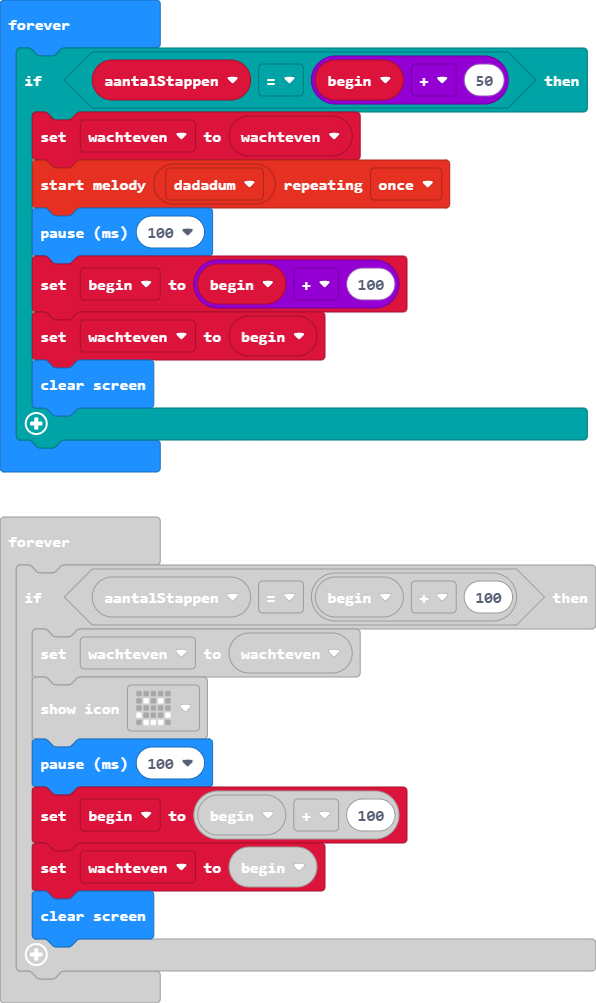
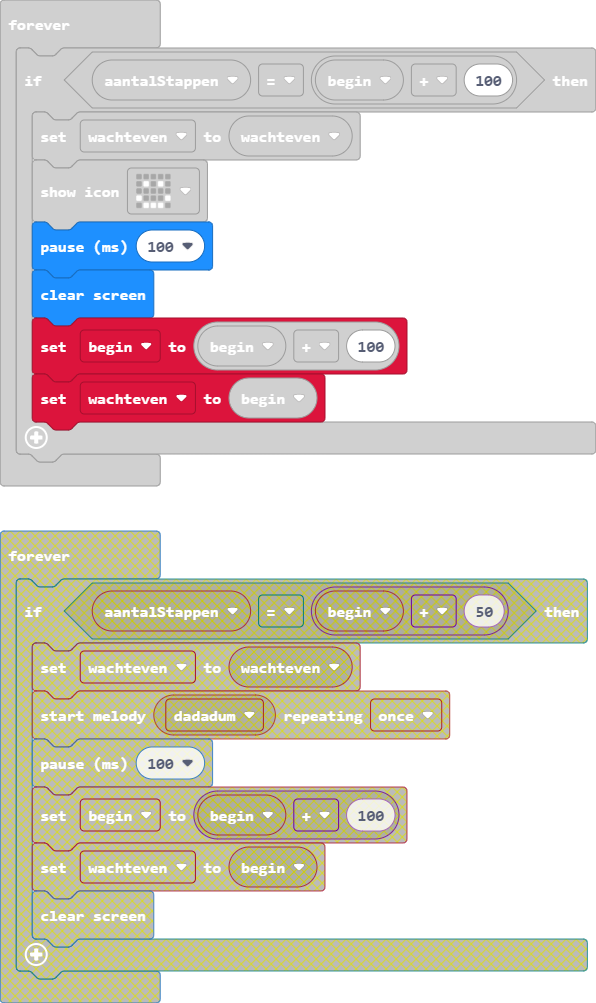
Update main.blocks, main.ts

diff --git a/main.ts b/main.ts
@@ -40,13 +40,13 @@ basic.forever(function () {
     serial.writeValue("versnelling", versnelling)
 })
 basic.forever(function () {
-    if (aantalStappen == begin + 50) {
+    if (aantalStappen == begin + 100) {
         wachteven = wachteven
-        music.startMelody(music.builtInMelody(Melodies.Dadadadum), MelodyOptions.Once)
+        basic.showIcon(IconNames.Happy)
         basic.pause(100)
+        basic.clearScreen()
         begin = begin + 100
         wachteven = begin
-        basic.clearScreen()
     }
 })
 basic.forever(function () {
@@ -55,15 +55,5 @@ basic.forever(function () {
         basic.pause(100)
     } else {
         basic.pause(100)
-    }
-})
-basic.forever(function () {
-    if (aantalStappen == begin + 100) {
-        wachteven = wachteven
-        basic.showIcon(IconNames.Happy)
-        basic.pause(100)
-        begin = begin + 100
-        wachteven = begin
-        basic.clearScreen()
     }
 })
